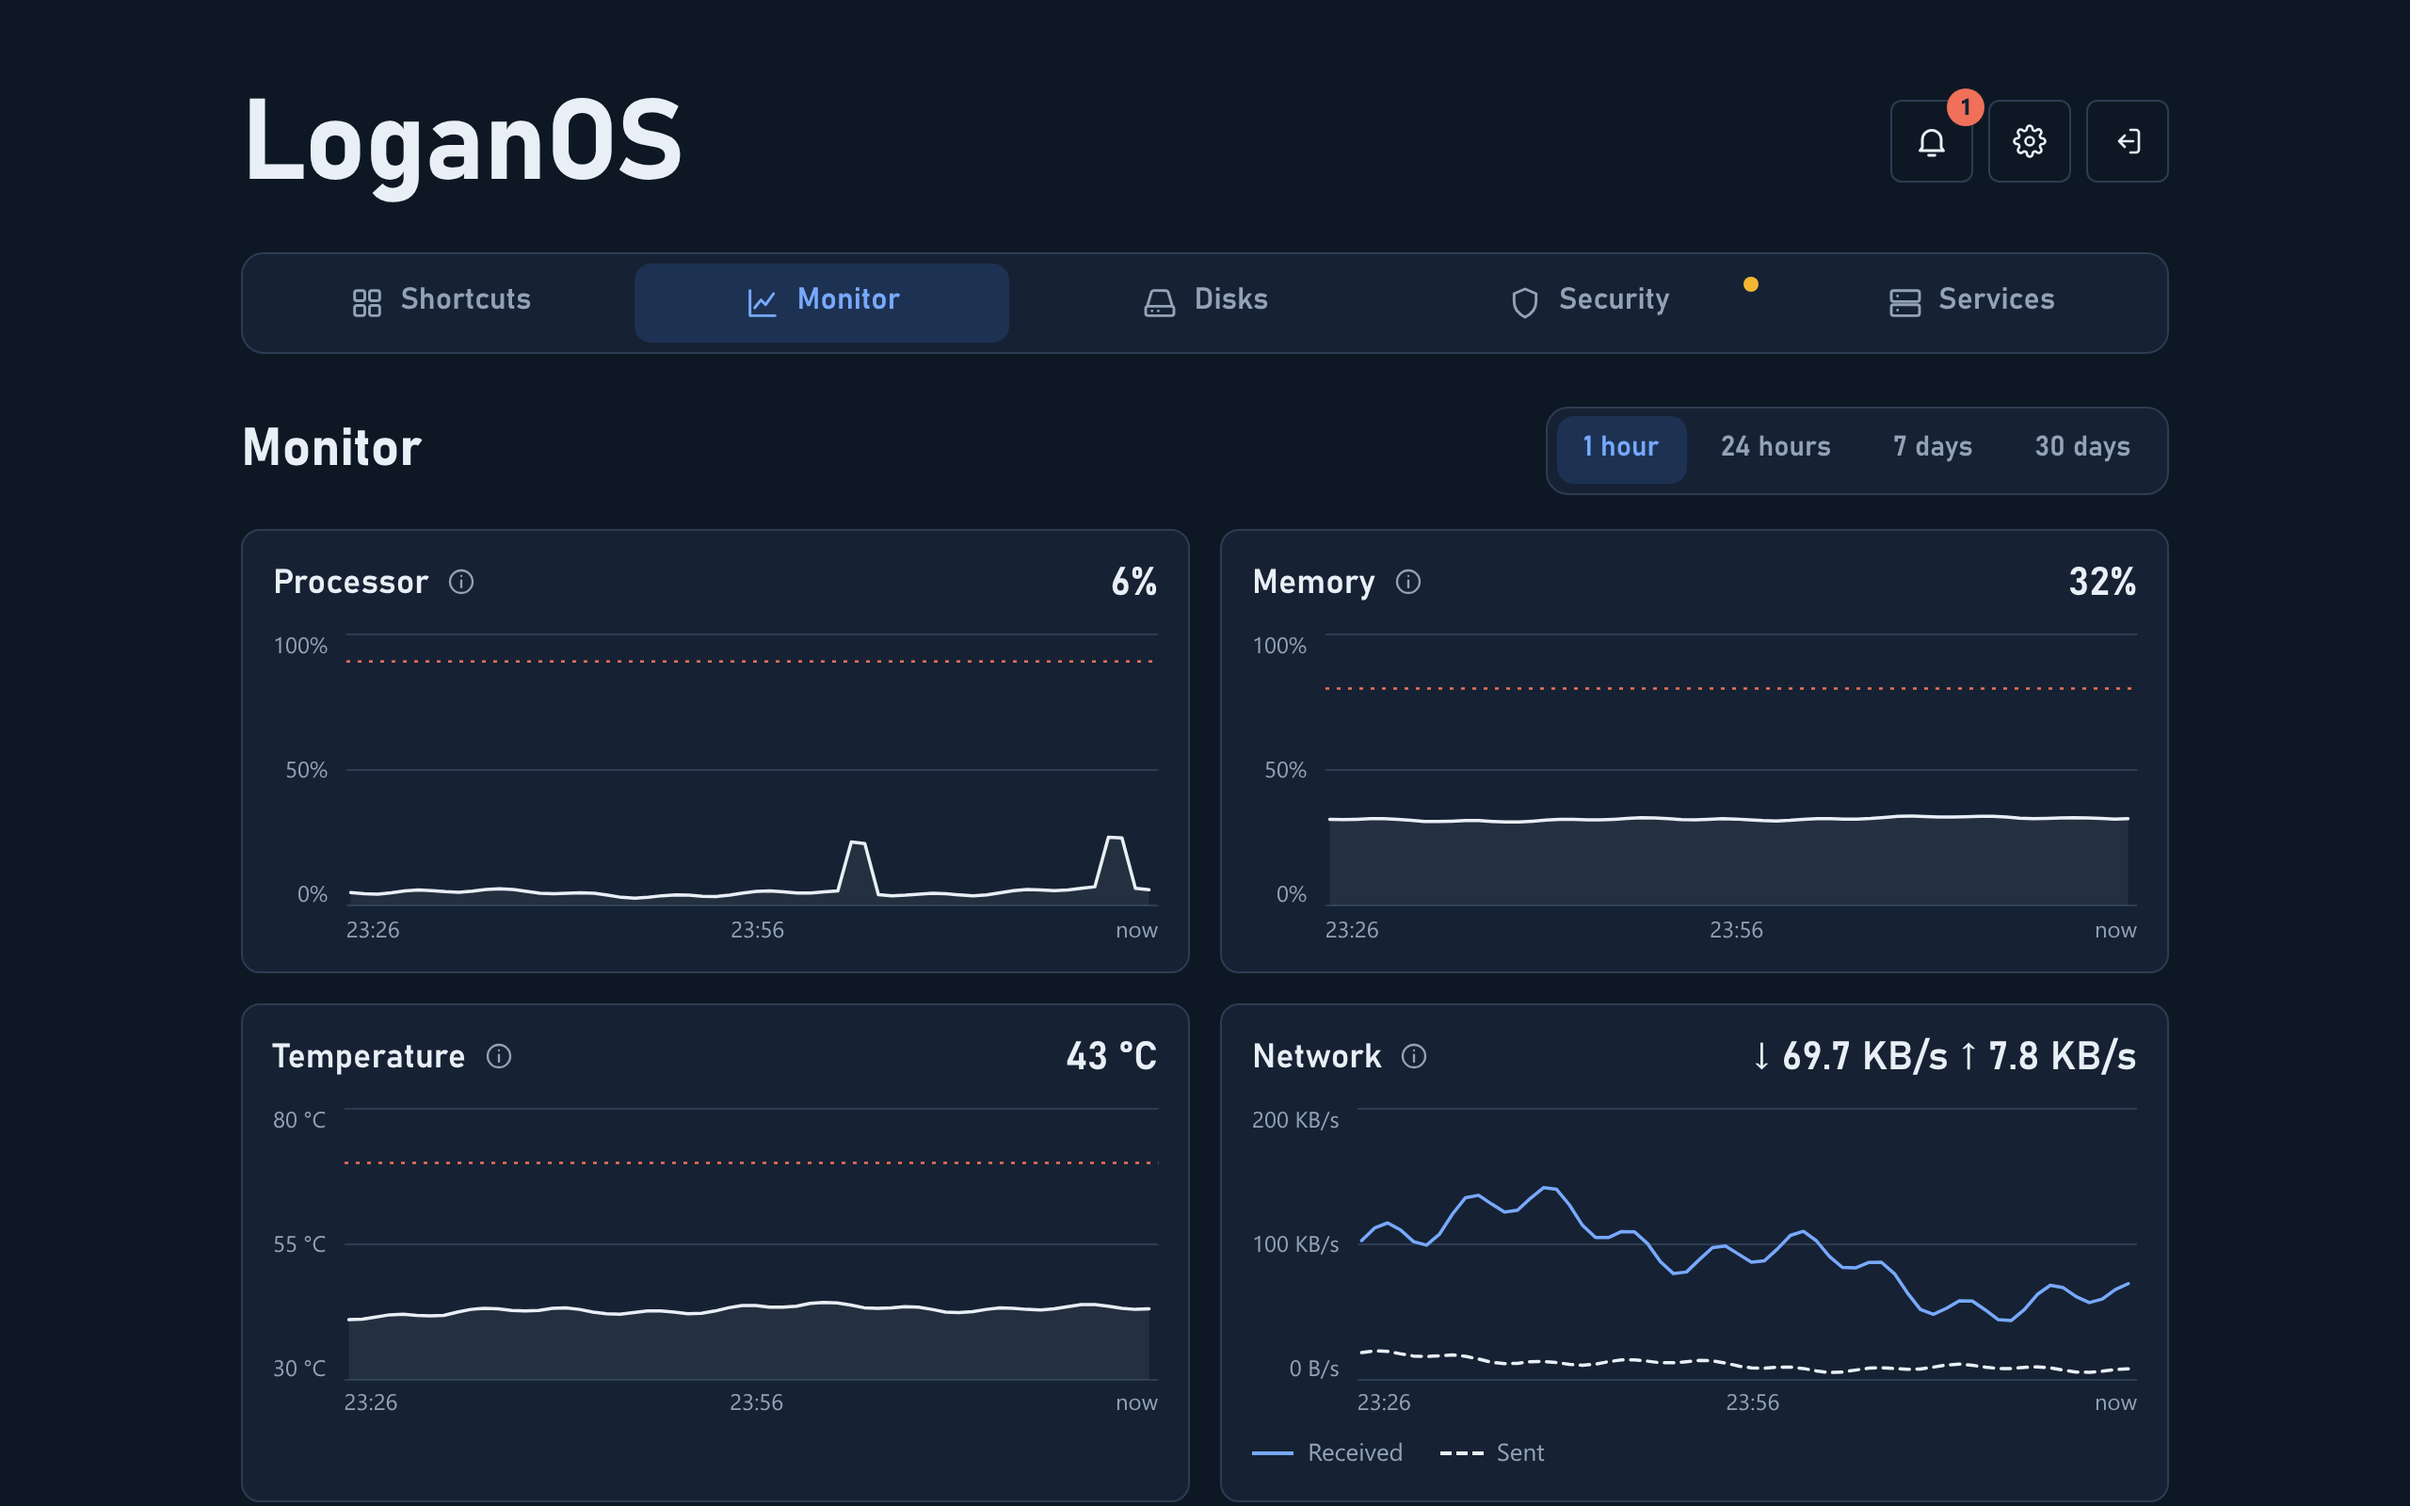
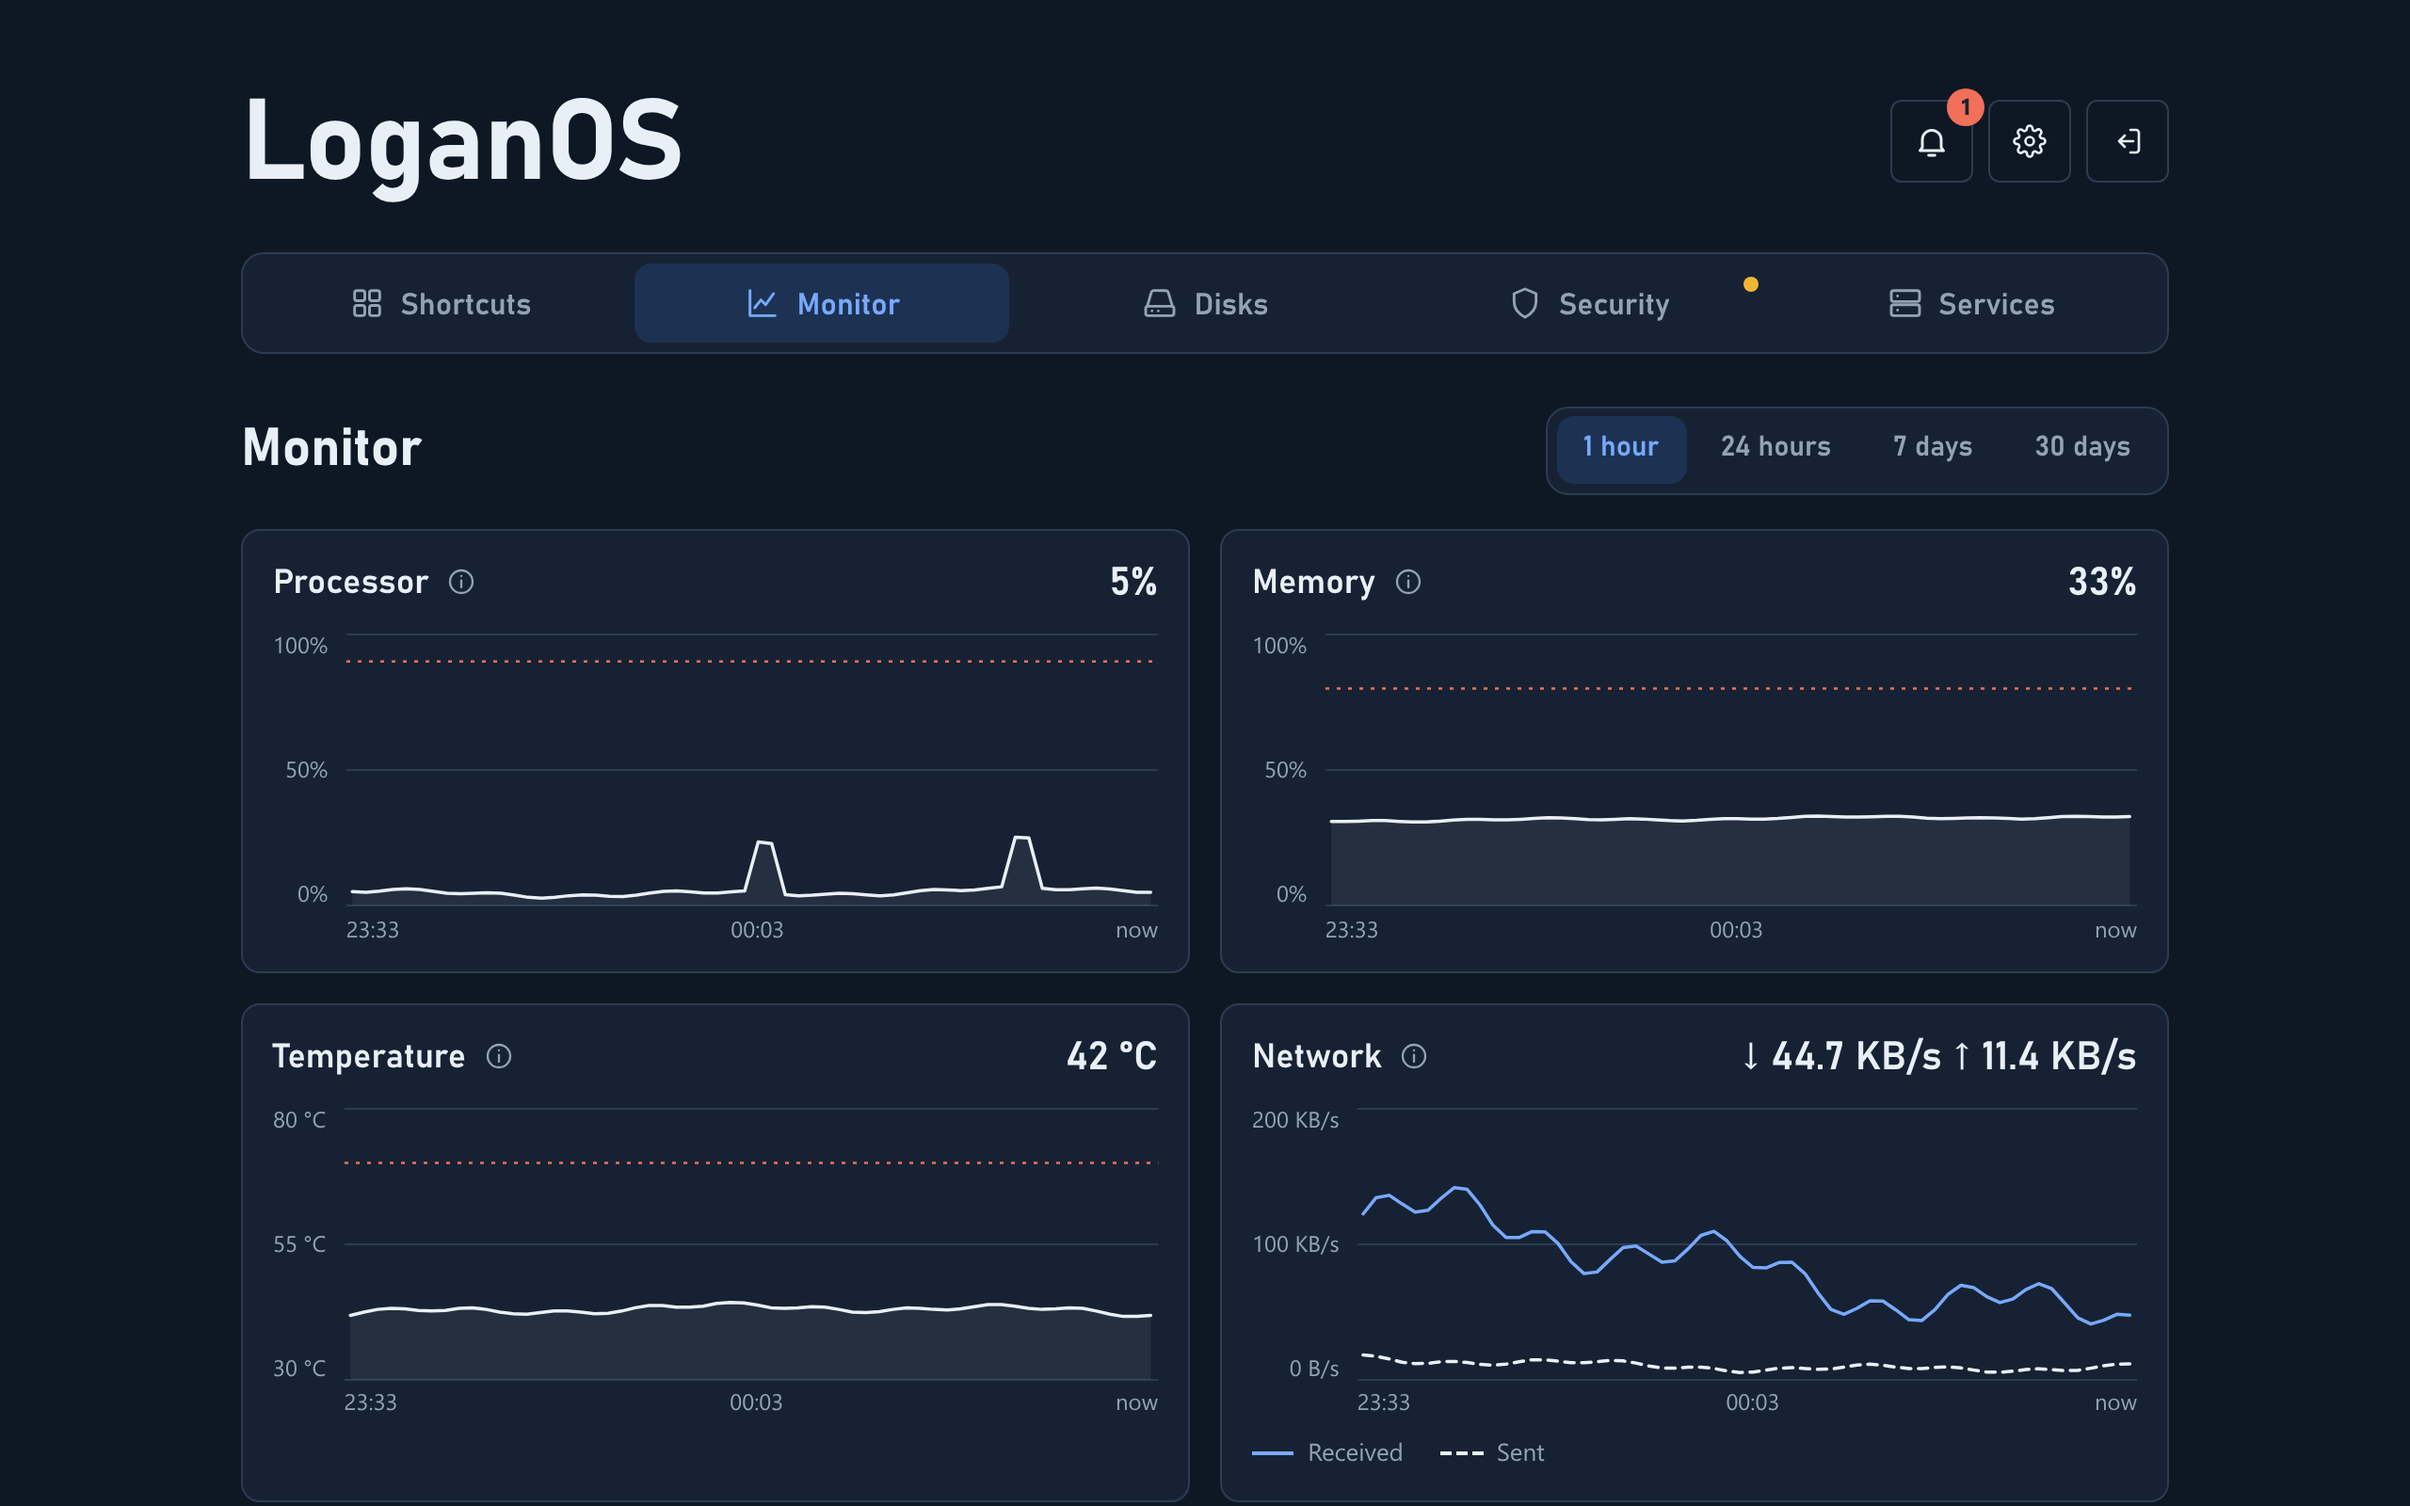
Capturas: tela de entrada, Ajustes e abas alinhadas

diff --git a/README.es.md b/README.es.md
@@ -10,6 +10,8 @@ Un panel para home lab en un solo archivo Python. Accesos a tus servicios, monit
 
 <p align="center"><img src="imagens/monitor.png" width="72%" alt="Monitor"> <img src="imagens/celular.png" width="24%" alt="LoganOS"></p>
 
+<p align="center"><img src="imagens/entrada.png" width="48%" alt="Sign in"> <img src="imagens/ajustes.png" width="48%" alt="Settings"></p>
+
 ## Requisitos
 
 - Linux con systemd. Probado en **Debian 13 (x86_64)**. Debian 12, Ubuntu 24.04 y Raspberry Pi OS deberían funcionar, pero todavía no se probaron.

diff --git a/README.pt-BR.md b/README.pt-BR.md
@@ -10,6 +10,8 @@ Um painel para home lab num arquivo Python só. Atalhos para os seus serviços, 
 
 <p align="center"><img src="imagens/monitor.png" width="72%" alt="Monitor"> <img src="imagens/celular.png" width="24%" alt="LoganOS"></p>
 
+<p align="center"><img src="imagens/entrada.png" width="48%" alt="Sign in"> <img src="imagens/ajustes.png" width="48%" alt="Settings"></p>
+
 ## Requisitos
 
 - Linux com systemd. Testado no **Debian 13 (x86_64)**. Debian 12, Ubuntu 24.04 e Raspberry Pi OS devem funcionar, mas ainda não foram testados.

diff --git a/README.md b/README.md
@@ -10,6 +10,8 @@ A home lab dashboard in a single Python file. Shortcuts to your services, a syst
 
 <p align="center"><img src="imagens/monitor.png" width="72%" alt="Monitor"> <img src="imagens/celular.png" width="24%" alt="LoganOS"></p>
 
+<p align="center"><img src="imagens/entrada.png" width="48%" alt="Sign in"> <img src="imagens/ajustes.png" width="48%" alt="Settings"></p>
+
 ## Requirements
 
 - Linux with systemd. Tested on **Debian 13 (x86_64)**. Debian 12, Ubuntu 24.04 and Raspberry Pi OS should work but are not tested yet.
